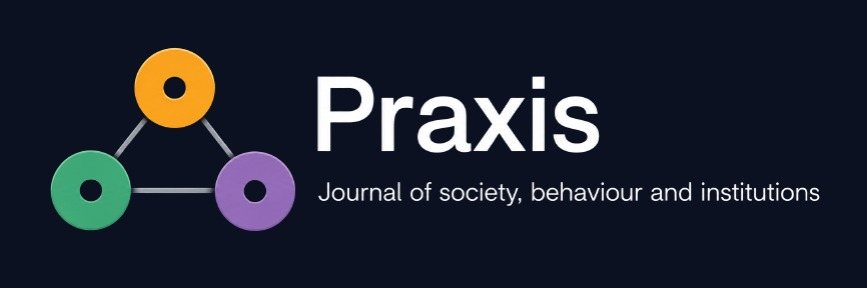
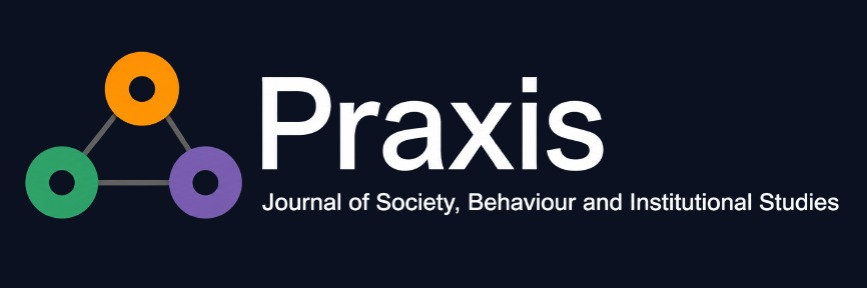
feat: implement core website pages and layout components including Contact, Home, About, and Terms sections

Changed region(s): [[0.0311, 0.1562, 0.9654, 0.8125]]

diff --git a/src/pages/Contact/Contact.jsx b/src/pages/Contact/Contact.jsx
@@ -112,7 +112,7 @@ const Contact = () => {
 
   const contactCards = [
     { icon: <FaMapMarkerAlt />, title: 'Office Address', line1: 'C 4242 Sector 12', line2: 'Rajajipuram Lucknow 226017' },
-    { icon: <FaEnvelope />, title: 'Email Us', line1: 'editor@praxisjournal.org', line2: '' },
+    { icon: <FaEnvelope />, title: 'Email Us', line1: 'Editor@praxis.org.in', line2: '' },
     { icon: <FaPhoneAlt />, title: 'Call Us', line1: '+91 80817 16983', line2: '' },
     { icon: <FaClock />, title: 'Office Hours', line1: 'Monday – Friday', line2: '09:00 AM – 05:00 PM' },
   ];
@@ -294,7 +294,7 @@ const Contact = () => {
               <h2 className="text-3xl md:text-4xl font-bold text-white mb-4">Need Immediate Assistance?</h2>
               <p className="text-white/80 text-lg mb-8 max-w-2xl mx-auto">Our dedicated support team is available during office hours to answer your queries regarding paper submission, peer review status, or general technical issues.</p>
               <div className="flex flex-col sm:flex-row justify-center gap-4">
-                <a href="mailto:editor@praxisjournal.org" className="inline-flex items-center justify-center gap-2 bg-white text-primary font-bold py-3.5 px-8 rounded-xl shadow-md hover:bg-gray-50 transition-colors">
+                <a href="mailto:Editor@praxis.org.in" className="inline-flex items-center justify-center gap-2 bg-white text-primary font-bold py-3.5 px-8 rounded-xl shadow-md hover:bg-gray-50 transition-colors">
                   <FaEnvelope /> Email Us
                 </a>
                 <a href="tel:+918081716983" className="inline-flex items-center justify-center gap-2 bg-primary-dark text-white border border-white/20 font-bold py-3.5 px-8 rounded-xl hover:bg-white/10 transition-colors">

diff --git a/src/pages/AnnouncementDetails/AnnouncementDetails.jsx b/src/pages/AnnouncementDetails/AnnouncementDetails.jsx
@@ -169,8 +169,8 @@ const AnnouncementDetails = () => {
             <h3 className="text-xl font-bold text-text mb-2">Have any questions?</h3>
             <p className="text-light-text mb-6">Our support team is here to help you regarding this announcement.</p>
             <div className="flex flex-col sm:flex-row justify-center gap-4">
-              <a href="mailto:editor@praxisjournal.org" className="inline-flex items-center justify-center gap-2 bg-gray-50 text-text font-bold py-3 px-6 rounded-xl border border-gray-200 hover:border-primary hover:text-primary transition-all">
-                <FaEnvelope /> editor@praxisjournal.org
+              <a href="mailto:Editor@praxis.org.in" className="inline-flex items-center justify-center gap-2 bg-gray-50 text-text font-bold py-3 px-6 rounded-xl border border-gray-200 hover:border-primary hover:text-primary transition-all">
+                <FaEnvelope /> Editor@praxis.org.in
               </a>
               <a href="tel:+918081716983" className="inline-flex items-center justify-center gap-2 bg-gray-50 text-text font-bold py-3 px-6 rounded-xl border border-gray-200 hover:border-primary hover:text-primary transition-all">
                 <FaPhoneAlt /> +91 80817 16983

diff --git a/src/components/layout/TopBar.jsx b/src/components/layout/TopBar.jsx
@@ -6,9 +6,9 @@ const TopBar = () => {
     <div className="bg-primary text-white text-sm py-2 hidden md:block">
       <div className="max-w-7xl mx-auto px-4 sm:px-6 lg:px-8 flex justify-between items-center">
         <div className="flex items-center gap-6">
-          <a href="mailto:editor@praxisjournal.org" className="flex items-center gap-2 group hover:text-blue-200 transition-colors">
+          <a href="mailto:Editor@praxis.org.in" className="flex items-center gap-2 group hover:text-blue-200 transition-colors">
             <FaEnvelope className="text-blue-300 group-hover:scale-110 transition-transform" />
-            <span>editor@praxisjournal.org</span>
+            <span>Editor@praxis.org.in</span>
           </a>
           <a href="tel:+918081716983" className="flex items-center gap-2 group hover:text-blue-200 transition-colors">
             <FaPhoneAlt className="text-blue-300 group-hover:scale-110 transition-transform" />

diff --git a/src/components/layout/Navbar.jsx b/src/components/layout/Navbar.jsx
@@ -17,11 +17,11 @@ const Navbar = () => {
   return (
     <nav className="sticky top-0 w-full bg-white/80 backdrop-blur-xl z-50 shadow-[0_8px_30px_rgb(0,0,0,0.06)] border-b border-white/60 transition-all duration-300">
       <div className="max-w-[1600px] w-full mx-auto px-4 sm:px-6">
-        <div className="flex justify-between h-20 items-center gap-2">
+        <div className="flex justify-between h-28 items-center gap-2">
           {/* Logo */}
           <div className="flex-shrink-0 flex items-center">
             <Link to="/" className="flex items-center">
-              <img src={logo} alt="Praxis Logo" className="h-[75px] object-contain py-1" />
+              <img src={logo} alt="Praxis Logo" className="h-[100px] object-contain py-1" />
             </Link>
           </div>
 

diff --git a/src/pages/Terms/Terms.jsx b/src/pages/Terms/Terms.jsx
@@ -147,7 +147,7 @@ const Terms = () => {
             <p className="text-light-text mb-6">If you have any queries regarding any of our terms, please contact us.</p>
             <div className="space-y-3">
               <div className="flex items-center gap-3 text-text font-medium">
-                <FaEnvelope className="text-primary" /> editor@praxisjournal.org
+                <FaEnvelope className="text-primary" /> Editor@praxis.org.in
               </div>
               <div className="flex items-center gap-3 text-text font-medium">
                 <FaPhoneAlt className="text-primary" /> +91 80817 16983

diff --git a/src/pages/About/About.jsx b/src/pages/About/About.jsx
@@ -412,7 +412,7 @@ const About = () => {
                   <div className="bg-accent/10 p-3 rounded-lg text-accent"><FaEnvelope size={20} /></div>
                   <div>
                     <h4 className="font-bold text-sm text-text">Email Address</h4>
-                    <p className="text-xs text-light-text">editor@praxisjournal.org</p>
+                    <p className="text-xs text-light-text">Editor@praxis.org.in</p>
                   </div>
                 </div>
                 <div className="flex gap-4 items-center bg-white p-4 rounded-xl border border-gray-100 shadow-sm">

diff --git a/src/components/layout/Footer.jsx b/src/components/layout/Footer.jsx
@@ -64,7 +64,7 @@ const Footer = () => {
             <h3 className="text-lg font-semibold text-white mb-4">Contact Info</h3>
             <ul className="space-y-3 text-sm text-gray-400">
               <li>C 4242 Sector 12 Rajajipuram Lucknow 226017</li>
-              <li>editor@praxisjournal.org</li>
+              <li>Editor@praxis.org.in</li>
               <li>+91 80817 16983</li>
             </ul>
           </div>

diff --git a/src/pages/Home/Home.jsx b/src/pages/Home/Home.jsx
@@ -704,7 +704,7 @@ const Home = () => {
                 </div>
                 <div>
                   <h4 className="text-sm font-bold text-text">Email</h4>
-                  <p className="text-xs text-light-text">editor@praxisjournal.org</p>
+                  <p className="text-xs text-light-text">Editor@praxis.org.in</p>
                 </div>
               </motion.div>
             </div>
